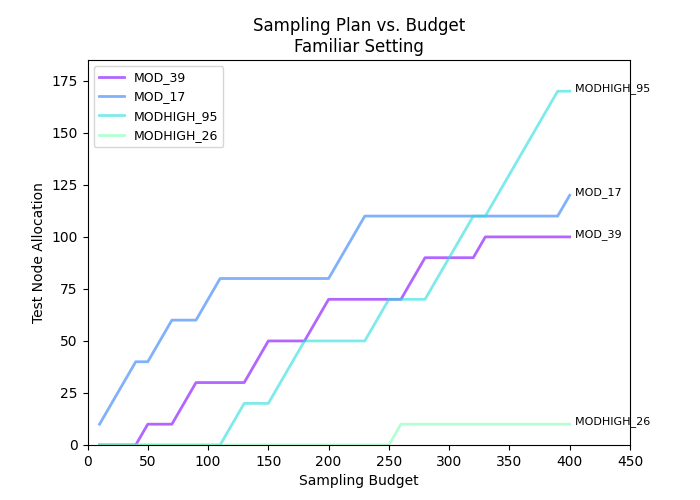
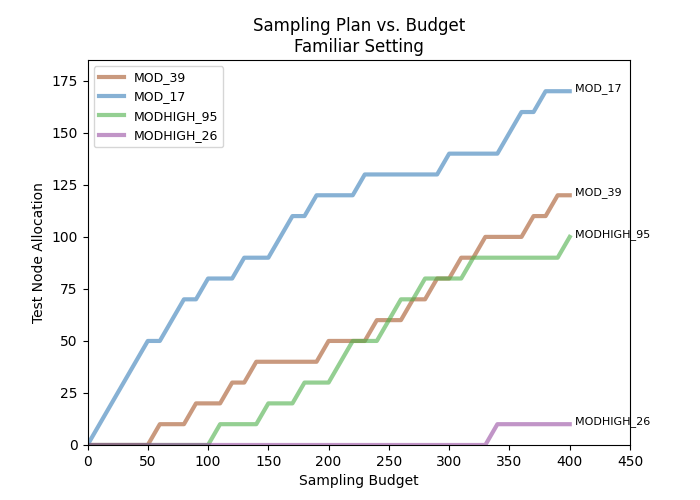
CS update

diff --git a/CASESTUDY_plotsforpaper.py b/CASESTUDY_plotsforpaper.py
@@ -96,21 +96,21 @@ def casestudyplots_familiar():
     TNnames = ['MOD_39', 'MOD_17', 'MODHIGH_95', 'MODHIGH_26']
     numTN = len(TNnames)
 
-    heur_util = np.load(os.path.join('casestudyoutputs', '31MAY', 'util_avg_fam.npy'))
-
-    #### REMOVE LATER; 9-JUN
-    heur_util_hi = np.load(os.path.join('casestudyoutputs', '31MAY', 'util_hi_fam.npy'))
-    heur_util_lo = np.load(os.path.join('casestudyoutputs', '31MAY', 'util_lo_fam.npy'))
-    util.plot_marg_util(heur_util,testmax,testint,colors = cm.rainbow(np.linspace(0, 0.5, numTN)),utilmax=1.0)
-    util.plot_marg_util_CI(heur_util,heur_util_hi, heur_util_lo,testmax,testint, utilmax=1.0,
-                           colors = cm.rainbow(np.linspace(0, 0.5, numTN)))
-    ################
+    heur_util = np.load(os.path.join('casestudyoutputs', '13JUN', 'fam_util_avg.npy'))
+    heur_util_hi = np.load(os.path.join('casestudyoutputs', '13JUN', 'fam_util_hi.npy'))
+    heur_util_lo = np.load(os.path.join('casestudyoutputs', '13JUN', 'fam_util_lo.npy'))
 
     # Size of figure layout for all figures
     figtup = (7, 5)
     titleSz, axSz, labelSz = 12, 10, 9
     xMax = 450
 
+    # color designation
+    import matplotlib as mpl
+    colorsset = plt.get_cmap('Set1')
+    colorinds = [6,1,2,3]
+
+    '''
     #######################
     # Plot of marginal utilities
     colors = cm.rainbow(np.linspace(0, 0.5, numTN))
@@ -138,16 +138,17 @@ def casestudyplots_familiar():
     plt.show()
     plt.close()
     #######################
+    '''
 
     #######################
     # Allocation plot
-    allocArr, objValArr = sampf.smooth_alloc_forward(heur_util)
-    colors = cm.rainbow(np.linspace(0, 0.5, numTN))
+    allocArr = np.load(os.path.join('casestudyoutputs', '13JUN', 'fam_alloc.npy'))
+    colors = np.array([colorsset(i) for i in colorinds])
     labels = [TNnames[ind] for ind in range(numTN)]
-    x = range(testint, testmax + 1, testint)
+    x = range(0, testmax + 1, testint)
     _ = plt.figure(figsize=figtup)
     for tnind in range(allocArr.shape[0]):
-        plt.plot(x, allocArr[tnind] * testint, linewidth=2, color=colors[tnind],
+        plt.plot(x, allocArr[tnind] * testint, linewidth=3, color=colors[tnind],
                  label=labels[tnind], alpha=0.6)
     # allocMax = allocArr.max() * testInt * 1.1
     allocMax = 185
@@ -170,7 +171,10 @@ def casestudyplots_familiar():
     util_arr_hi = np.load(os.path.join('casestudyoutputs', '31MAY', 'util_hi_arr_fam.npy'))
     util_arr_lo = np.load(os.path.join('casestudyoutputs', '31MAY', 'util_lo_arr_fam.npy'))
     # Utility comparison plot
-    colors = cm.rainbow(np.linspace(0, 0.8, 3))
+    colorsset = plt.get_cmap('Accent')
+    colorinds = [0, 1, 2]
+    colors = np.array([colorsset(i) for i in colorinds])
+    #colors = cm.rainbow(np.linspace(0, 0.8, 3))
     labels = ['Heuristic', 'Uniform', 'Rudimentary']
     x = range(0, testmax + 1, testint)
     utilMax = -1
@@ -196,128 +200,20 @@ def casestudyplots_familiar():
     plt.xlabel('Sampling Budget', fontsize=axSz)
     plt.ylabel('Plan Utility', fontsize=axSz)
     plt.title('Utility from Heuristic vs. Uniform and Rudimentary Allocations\nFamiliar Setting', fontsize=titleSz)
-    '''
-    # Add text box showing budgetary savings
-    heurutilavg = np.average(np.array(heur_utillist), axis=0)
-    x2, x3 = 130, 156
-    plt.plot([100, x3], [heurutilavg[9], heurutilavg[9]], color='black', linestyle='--')
+    # Add text for budgetary savings vs other policies at 100 tests
+    x1, x2, x3 = 100, 132, 155
     iv = 0.015
-    plt.plot([100, 100], [heurutilavg[9] - iv, heurutilavg[9] + iv], color='black', linestyle='--')
-    plt.plot([x2, x2], [heurutilavg[9] - iv, heurutilavg[9] + iv], color='black', linestyle='--')
-    plt.plot([x3, x3], [heurutilavg[9] - iv, heurutilavg[9] + iv], color='black', linestyle='--')
-    plt.text(110, heurutilavg[9] + iv / 2, '30', fontsize=labelSz)
-    plt.text(139, heurutilavg[9] + iv / 2, '26', fontsize=labelSz)
+    utilind = int(x1/testint)
+    plt.plot([x1, x3], [util_arr[0][utilind], util_arr[0][utilind]], color='black', linestyle='--')
+    plt.plot([100, 100], [util_arr[0][utilind] - iv, util_arr[0][utilind] + iv], color='black', linestyle='--')
+    plt.plot([x2, x2], [util_arr[0][utilind] - iv, util_arr[0][utilind] + iv], color='black', linestyle='--')
+    plt.plot([x3, x3], [util_arr[0][utilind] - iv, util_arr[0][utilind] + iv], color='black', linestyle='--')
+    plt.text(110, util_arr[0][utilind] + iv / 2, str(int(x2-x1)), fontsize=labelSz)
+    plt.text(137, util_arr[0][utilind] + iv / 2, str(int(x3-x2)), fontsize=labelSz)
     # plt.tight_layout()
-    '''
     plt.show()
     plt.close()
     #######################
-
-
-
-
-
-
-    # List of comprehensive utilities for heuristic
-    heur_utillist = [np.array([0.06382507, 0.10506746, 0.14113592, 0.17609555, 0.20035397,
-                               0.22949996, 0.25375875, 0.2778598, 0.29984599, 0.31620371,
-                               0.33690511, 0.35860444, 0.38146605, 0.39525024, 0.41716017,
-                               0.43594724, 0.45317528, 0.47051066, 0.49091332, 0.50682803,
-                               0.52018989, 0.5418224, 0.55684317, 0.57245363, 0.58670926,
-                               0.60898051, 0.62757192, 0.63987248, 0.65232003, 0.65433092,
-                               0.67671267, 0.69184994, 0.70314622, 0.72154417, 0.73680664,
-                               0.75444832, 0.76425734, 0.7791746, 0.79497273, 0.81572736]),
-                     np.array([0.06462517, 0.10961266, 0.14617499, 0.17780936, 0.20363225,
-                               0.23041206, 0.25740358, 0.27766876, 0.29312512, 0.31557361,
-                               0.33530329, 0.36081813, 0.37704713, 0.39551182, 0.41443499,
-                               0.42955573, 0.45339857, 0.46742178, 0.48380338, 0.49736288,
-                               0.51375158, 0.52478321, 0.54409508, 0.56177912, 0.57468272,
-                               0.60456728, 0.61228665, 0.62588728, 0.64313516, 0.65165524,
-                               0.67121902, 0.68439816, 0.70397772, 0.70821652, 0.72513014,
-                               0.74635225, 0.76193202, 0.78094993, 0.79430877, 0.79052913]),
-                     np.array([0.06085764, 0.0980188, 0.13265826, 0.16569316, 0.18822259,
-                               0.21785427, 0.24407703, 0.2614815, 0.27854984, 0.29983535,
-                               0.32327982, 0.33844527, 0.36191535, 0.37881142, 0.40331534,
-                               0.41365246, 0.43214752, 0.45162729, 0.46968644, 0.48396314,
-                               0.50285393, 0.51030504, 0.52897311, 0.54987342, 0.56226242,
-                               0.57793117, 0.59861256, 0.62137804, 0.6242618, 0.64609686,
-                               0.66280318, 0.67326059, 0.68449137, 0.70604726, 0.71027971,
-                               0.73686349, 0.7435827, 0.76857242, 0.78926802, 0.79741367]),
-                     np.array([0.03106763, 0.07286322, 0.10998372, 0.13812251, 0.16879457,
-                               0.19922628, 0.22801597, 0.2485636, 0.2655454, 0.28958374,
-                               0.31674403, 0.33936658, 0.36231108, 0.38167127, 0.3972411,
-                               0.41753462, 0.43264919, 0.45685282, 0.47436211, 0.49088067,
-                               0.50921795, 0.51783368, 0.54229446, 0.55684378, 0.57610806,
-                               0.5857951, 0.6096527, 0.6216253, 0.64198431, 0.65428421,
-                               0.67196841, 0.69638327, 0.70304679, 0.7208629, 0.7348868,
-                               0.75061593, 0.76318879, 0.772441, 0.79820724, 0.80558449]),
-                     np.array([0.05668697, 0.10262769, 0.14105674, 0.17363495, 0.19806695,
-                               0.22564098, 0.2548294, 0.27660807, 0.29434048, 0.31304457,
-                               0.3343722, 0.35648835, 0.37606117, 0.39276222, 0.41150551,
-                               0.42859706, 0.44436224, 0.4648064, 0.47967852, 0.49365363,
-                               0.51332197, 0.52561107, 0.53779699, 0.55870816, 0.57876923,
-                               0.59554469, 0.60538101, 0.62178017, 0.64004709, 0.6613331,
-                               0.66403962, 0.68249925, 0.70066103, 0.7172556, 0.73394783,
-                               0.75314802, 0.76254153, 0.7733508, 0.79292171, 0.79750005]),
-                     np.array([0.07613541, 0.12165789, 0.15831771, 0.19297246, 0.21287435,
-                               0.24560646, 0.26539924, 0.29110604, 0.31387596, 0.33061212,
-                               0.35200531, 0.3753401, 0.39611738, 0.41093078, 0.4336867,
-                               0.45234595, 0.46762176, 0.48661515, 0.50080393, 0.52090974,
-                               0.53825081, 0.55038007, 0.56724664, 0.58236747, 0.60817663,
-                               0.62400145, 0.63779373, 0.64763286, 0.67565383, 0.67301454,
-                               0.70715914, 0.7096781, 0.72837052, 0.74372657, 0.75980874,
-                               0.78666726, 0.79364461, 0.80827571, 0.82764946, 0.83088659])]
-    # List of rudimentary comprehensive utilities
-    rudi_utillist = [np.array([0.01121986, 0.02582556, 0.05046794, 0.06909151, 0.09436937,
-                               0.11395778, 0.13825574, 0.15913521, 0.18671247, 0.20126907,
-                               0.22741945, 0.24433737, 0.26078601, 0.27958456, 0.30440025,
-                               0.31756519, 0.33673802, 0.35254002, 0.37326871, 0.39652775,
-                               0.41000818, 0.43284291, 0.43977554, 0.46238721, 0.47483195,
-                               0.48857267, 0.51441441, 0.53274999, 0.54548249, 0.55525837,
-                               0.57250429, 0.59758681, 0.61096384, 0.62156961, 0.64501836,
-                               0.65556402, 0.68559985, 0.67583804, 0.70181668, 0.71108492]),
-                     np.array([0.02795243, 0.04726679, 0.0672626, 0.08798852, 0.10614938,
-                               0.13053853, 0.15074945, 0.16747773, 0.18907569, 0.20509474,
-                               0.22974192, 0.24578162, 0.25939473, 0.2756333, 0.29528029,
-                               0.31613174, 0.33619955, 0.35107068, 0.3705562, 0.38667639,
-                               0.40195513, 0.42197244, 0.43369534, 0.45898202, 0.47330496,
-                               0.49375738, 0.5031161, 0.51690998, 0.53128846, 0.54648137,
-                               0.56853023, 0.58321203, 0.59913081, 0.60826631, 0.63340863,
-                               0.64153133, 0.65420011, 0.66901826, 0.68571198, 0.69962928]),
-                     np.array([0.04086377, 0.05221949, 0.07480906, 0.09650311, 0.1114406,
-                               0.13082882, 0.14498035, 0.16857216, 0.18237847, 0.20280144,
-                               0.2231874, 0.23503265, 0.25486982, 0.27445497, 0.29105611,
-                               0.3066886, 0.33083936, 0.34721591, 0.35844714, 0.38550175,
-                               0.39518974, 0.41596949, 0.42867096, 0.4442613, 0.45951736,
-                               0.47113222, 0.49388963, 0.50549801, 0.53117332, 0.54374756,
-                               0.55286615, 0.57443072, 0.57891583, 0.6097668, 0.61971831,
-                               0.63586965, 0.64704409, 0.66162538, 0.66971241, 0.69195201]),
-                     np.array([0.01254531, 0.02879158, 0.05278567, 0.07742554, 0.09959865,
-                               0.12440331, 0.1466998, 0.16690664, 0.19043403, 0.21231485,
-                               0.23001318, 0.25082075, 0.26544161, 0.28613121, 0.30800187,
-                               0.32662875, 0.35020767, 0.36735421, 0.3919072, 0.39784319,
-                               0.41268325, 0.43892994, 0.45696821, 0.46975601, 0.48625379,
-                               0.50348896, 0.52252359, 0.53017677, 0.55093142, 0.56604239,
-                               0.58815811, 0.60038772, 0.61420697, 0.6325675, 0.65074301,
-                               0.66382202, 0.6776332, 0.68637533, 0.70271301, 0.72212557]),
-                     np.array([0.03337605, 0.05147919, 0.07110944, 0.09467589, 0.11535336,
-                               0.13082484, 0.15407198, 0.17047731, 0.18791144, 0.21047454,
-                               0.22739688, 0.24646216, 0.26520206, 0.2820505, 0.30520826,
-                               0.31922798, 0.33720306, 0.35925602, 0.36941223, 0.39679792,
-                               0.40310058, 0.42532935, 0.43732679, 0.46038079, 0.47657938,
-                               0.49378628, 0.51291656, 0.52468943, 0.54440889, 0.55303288,
-                               0.56610784, 0.58843534, 0.60933449, 0.61384461, 0.62954021,
-                               0.64933632, 0.66456395, 0.67793322, 0.69492135, 0.68922654])]
-
-    avgheurarr = np.average(np.array(heurlist), axis=0)
-
-
-
-
-
-
-
-
 
     return
 

diff --git a/CASESTUDY_MStable.py b/CASESTUDY_MStable.py
@@ -73,11 +73,11 @@ print('Saved vs Unif at 180: '+str(unif180saved))
 print('Saved vs Rudi at 180: '+str(rudi180saved))
 
 # Test node prior variance: 4
-fam_MS_alloc = np.load(os.path.join('casestudyoutputs', '13JUN', 'fam_MS_priorvar_4_alloc.npy'))
-fam_MS_util_avg = np.load(os.path.join('casestudyoutputs', '13JUN', 'fam_MS_priorvar_4_util_avg.npy'))
-util_avg_rudi_90 = np.load(os.path.join('casestudyoutputs', '13JUN', 'fam_MS_priorvar_4_util_avg_rudi_90.npy'))
+fam_MS_alloc = np.load(os.path.join('casestudyoutputs', 'modeling_sensitivity', 'fam_MS_priorvar_4_alloc.npy'))
+fam_MS_util_avg = np.load(os.path.join('casestudyoutputs', 'modeling_sensitivity', 'fam_MS_priorvar_4_util_avg.npy'))
+util_avg_rudi_90 = np.load(os.path.join('casestudyoutputs', 'modeling_sensitivity', 'fam_MS_priorvar_4_util_avg_rudi_90.npy'))
 util_avg_rudi_180 = np.load(os.path.join('casestudyoutputs', '13JUN', 'fam_MS_priorvar_4_util_avg_rudi_180.npy'))
-util_avg_unif_90 = np.load(os.path.join('casestudyoutputs', '13JUN', 'fam_MS_priorvar_4_util_avg_unif_90.npy'))
+util_avg_unif_90 = np.load(os.path.join('casestudyoutputs', 'modeling_sensitivity', 'fam_MS_priorvar_4_util_avg_unif_90.npy'))
 util_avg_unif_180 = np.load(os.path.join('casestudyoutputs', '13JUN', 'fam_MS_priorvar_4_util_avg_unif_180.npy'))
 alloc90 = fam_MS_util_avg[9]
 alloc180 = fam_MS_util_avg[18]

diff --git a/CASESTUDY_alloc_sensitivity.py b/CASESTUDY_alloc_sensitivity.py
@@ -58,7 +58,7 @@ testarr = np.arange(testint, testmax + testint, testint)
 # Set MCMC draws to use in fast algorithm
 numtruthdraws, numdatadraws = 75000, 1000
 
-alloc_list, util_avg_list, util_hi_list, util_lo_list = [], [], [], []
+
 numReps = 10
 for rep in range(numReps):
     print('Rep: '+str(rep))
@@ -79,3 +79,6 @@ for rep in range(numReps):
     np.save(os.path.join('casestudyoutputs', 'allocation_sensitivity', 'allocsens_util_hi_'+str(rep)), util_hi)
     np.save(os.path.join('casestudyoutputs', 'allocation_sensitivity', 'allocsens_util_lo_'+str(rep)), util_lo)
 
+alloc_list, util_avg_list, util_hi_list, util_lo_list = [], [], [], []
+for i in range(9):
+    alloc_list.append(np.load(os.path.join('casestudyoutputs', '13JUN', 'fam_util_avg.npy')))

diff --git a/CASESTUDY_modsens_fam_riskslope.py b/CASESTUDY_modsens_fam_riskslope.py
@@ -61,7 +61,7 @@ testmax, testint = 180, 10
 testarr = np.arange(testint, testmax + testint, testint)
 
 # Set MCMC draws to use in fast algorithm
-numtruthdraws, numdatadraws = 75000, 1000
+numtruthdraws, numdatadraws = 75000, 2000
 # Get random subsets for truth and data draws
 np.random.seed(444)
 truthdraws, datadraws = util.distribute_truthdata_draws(csdict_fam['postSamples'], numtruthdraws, numdatadraws)
@@ -232,5 +232,3 @@ print('Saved vs Unif at 90: '+str(unif90saved))
 print('Saved vs Rudi at 90: '+str(rudi90saved))
 print('Saved vs Unif at 180: '+str(unif180saved))
 print('Saved vs Rudi at 180: '+str(rudi180saved))
-
-

diff --git a/CASESTUDY_modsens_expl_riskslope.py b/CASESTUDY_modsens_expl_riskslope.py
@@ -70,7 +70,7 @@ testmax, testint = 180, 10
 testarr = np.arange(testint, testmax + testint, testint)
 
 # Set MCMC draws to use in fast algorithm
-numtruthdraws, numdatadraws = 75000, 1000
+numtruthdraws, numdatadraws = 75000, 2000
 # Get random subsets for truth and data draws
 np.random.seed(444)
 truthdraws, datadraws = util.distribute_truthdata_draws(csdict_expl['postSamples'], numtruthdraws, numdatadraws)
